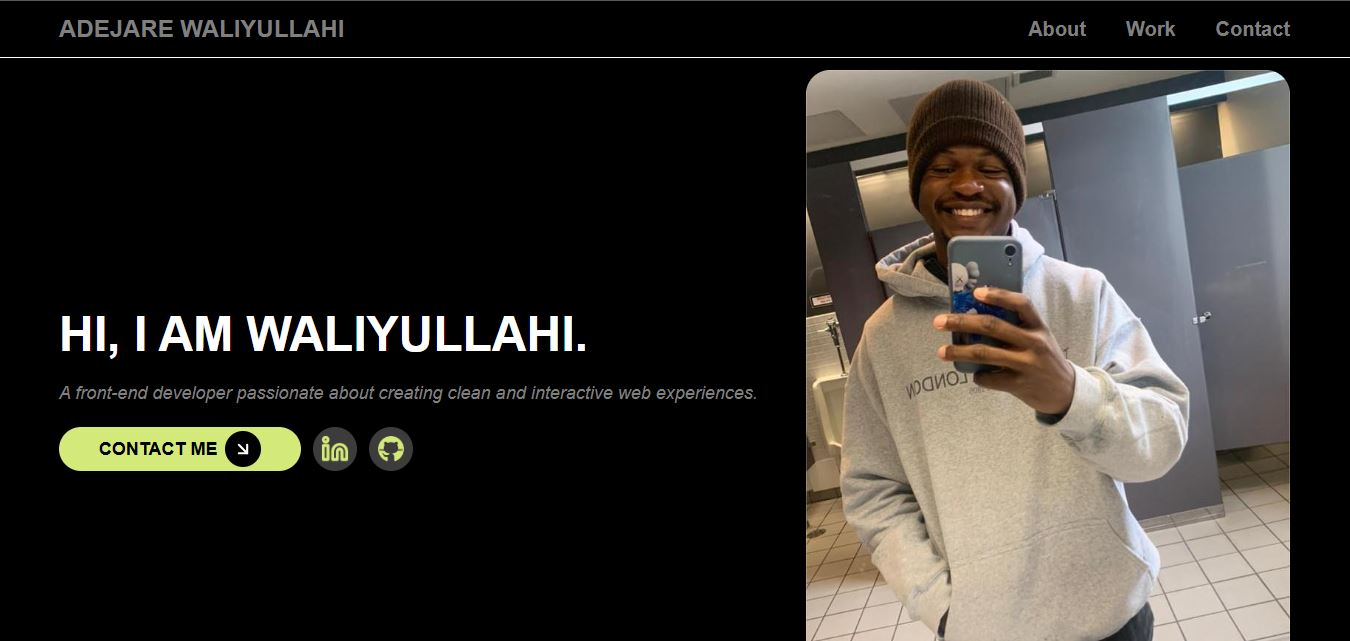
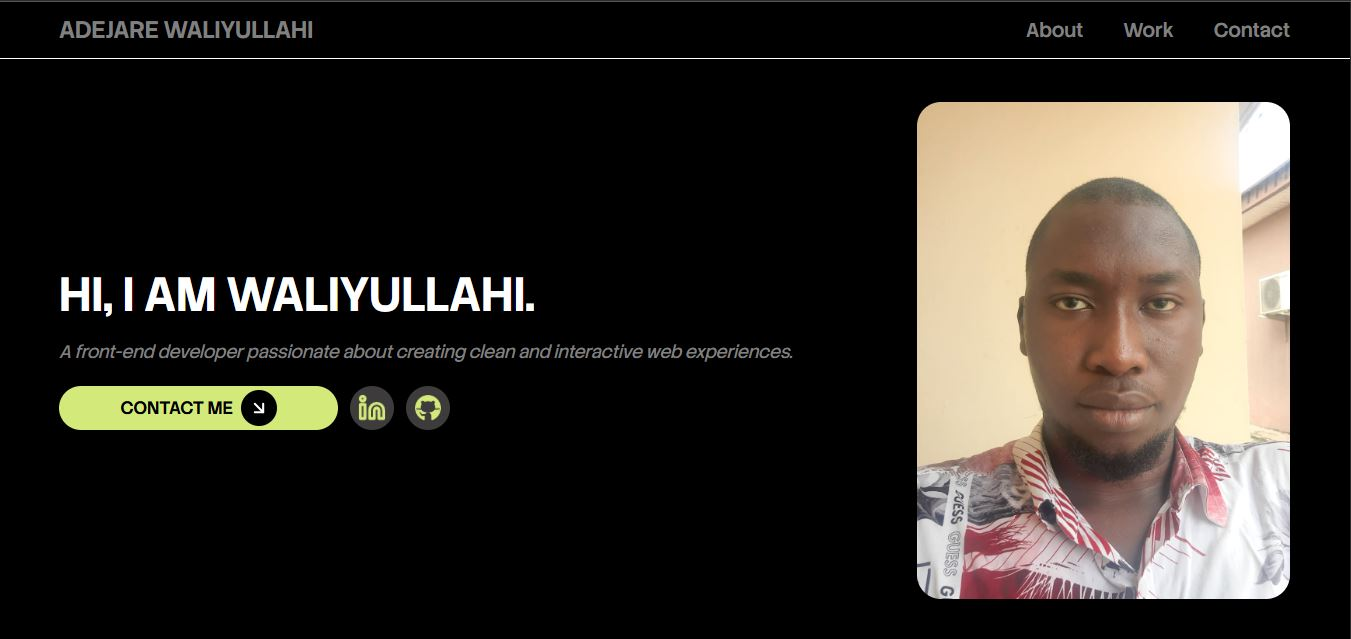
Adjusted Homepage image and ProjectPage

diff --git a/src/components/Home.jsx b/src/components/Home.jsx
@@ -6,7 +6,7 @@ const Home = () => {
   return (
     <section
       id="home"
-      className="flex flex-col lg:flex-row lg:items-center px-5 lg:px-15 pt-25 gap-5  py-10 border-b-1 border-[var(--color-secondary)]"
+      className="flex flex-col lg:flex-row lg:items-center px-5 lg:px-15 pt-25 gap-5 py-10 border-b-1 border-[var(--color-secondary)]"
     >
       <div className="flex flex-col gap-5 lg:w-3/4">
         <h1 className="text-5xl lg:w-full font-bold w-1/2">HI, I AM  WALIYULLAHI.</h1>
@@ -37,8 +37,8 @@ const Home = () => {
           </div>
 
           <div className="bg-[var(--color-buttonbg)] p-2 rounded-full lg:hidden">
-            <a href="mailto:szetrov@gmail.com">
-              <img className="w-7" src="/Icons/mail.png" alt="LinkedIn-icon" />
+            <a href="mailto:adejareWaliyullahi25@gmail.com">
+              <img className="w-7" src="/Icons/mail.png" alt="Email-icon" />
             </a>
           </div>
 
@@ -87,9 +87,9 @@ const Home = () => {
         </div>
       </div>
 
-      <div className="flex justify-center lg:w-1/2">
+      <div className="flex justify-center lg:w-1/3">
         <img
-          src="/Images/Portfolio_picture.jpg"
+          src="/Images/wallypic_7.jpg"
           alt="Picture of the website creator"
           className="rounded-3xl"
         />

diff --git a/src/components/Projects.jsx b/src/components/Projects.jsx
@@ -22,7 +22,7 @@ const Projects = () => {
 
                 <div className='flex flex-col lg:flex-row gap-3 pb-3 lg:p-3 rounded-xl border-1 border-[var(--color-secondary)]'>
                     <div className='lg:basis-1/2'>
-                        <img src='/Images/portfolio_mainpage.JPG' alt='Portfolio Landing Page' className='rounded-t-xl lg:rounded-xl' />
+                        <img src='/Images/Portfolio_mainpage.JPG' alt='Portfolio Landing Page' className='rounded-t-xl lg:rounded-xl' />
                     </div>
                     <div className='flex flex-col justify-end gap-3 px-3 lg:basis-1/2'>
                         <h2 className='text-2xl lg:text-4xl font-semibold'>Portfolio Website</h2>

diff --git a/src/index.css b/src/index.css
@@ -1,8 +1,9 @@
+@import url('https://fonts.googleapis.com/css2?family=Stack+Sans+Headline:wght@200..700&display=swap');
+/* @import url('https://fonts.googleapis.com/css2?family=Roboto:ital,wght@0,100..900;1,100..900&display=swap'); */
 @import "tailwindcss";
-@import url('https://fonts.googleapis.com/css2?family=Roboto:ital,wght@0,100..900;1,100..900&display=swap');
 
 @theme{
-    --font-roboto: "Roboto", sans-serif;
+    --font-Stacksans: "Stack Sans Headline", sans-serif;
 }
 
 :root {

diff --git a/src/App.jsx b/src/App.jsx
@@ -8,7 +8,7 @@ import Projects from './components/Projects'
 
 const App = () => {
   return (
-    <section className='relative bg-[var(--color-primary)] text-[var(--color-secondary)] font-roboto'>
+    <section className='relative bg-[var(--color-primary)] text-[var(--color-secondary)] font-Stacksans'>
       <div className='fixed w-full z-50 bg-[var(--color-primary)] border-b-1 border-[var(--color-secondary)]'>
         <Navbar />
       </div>
